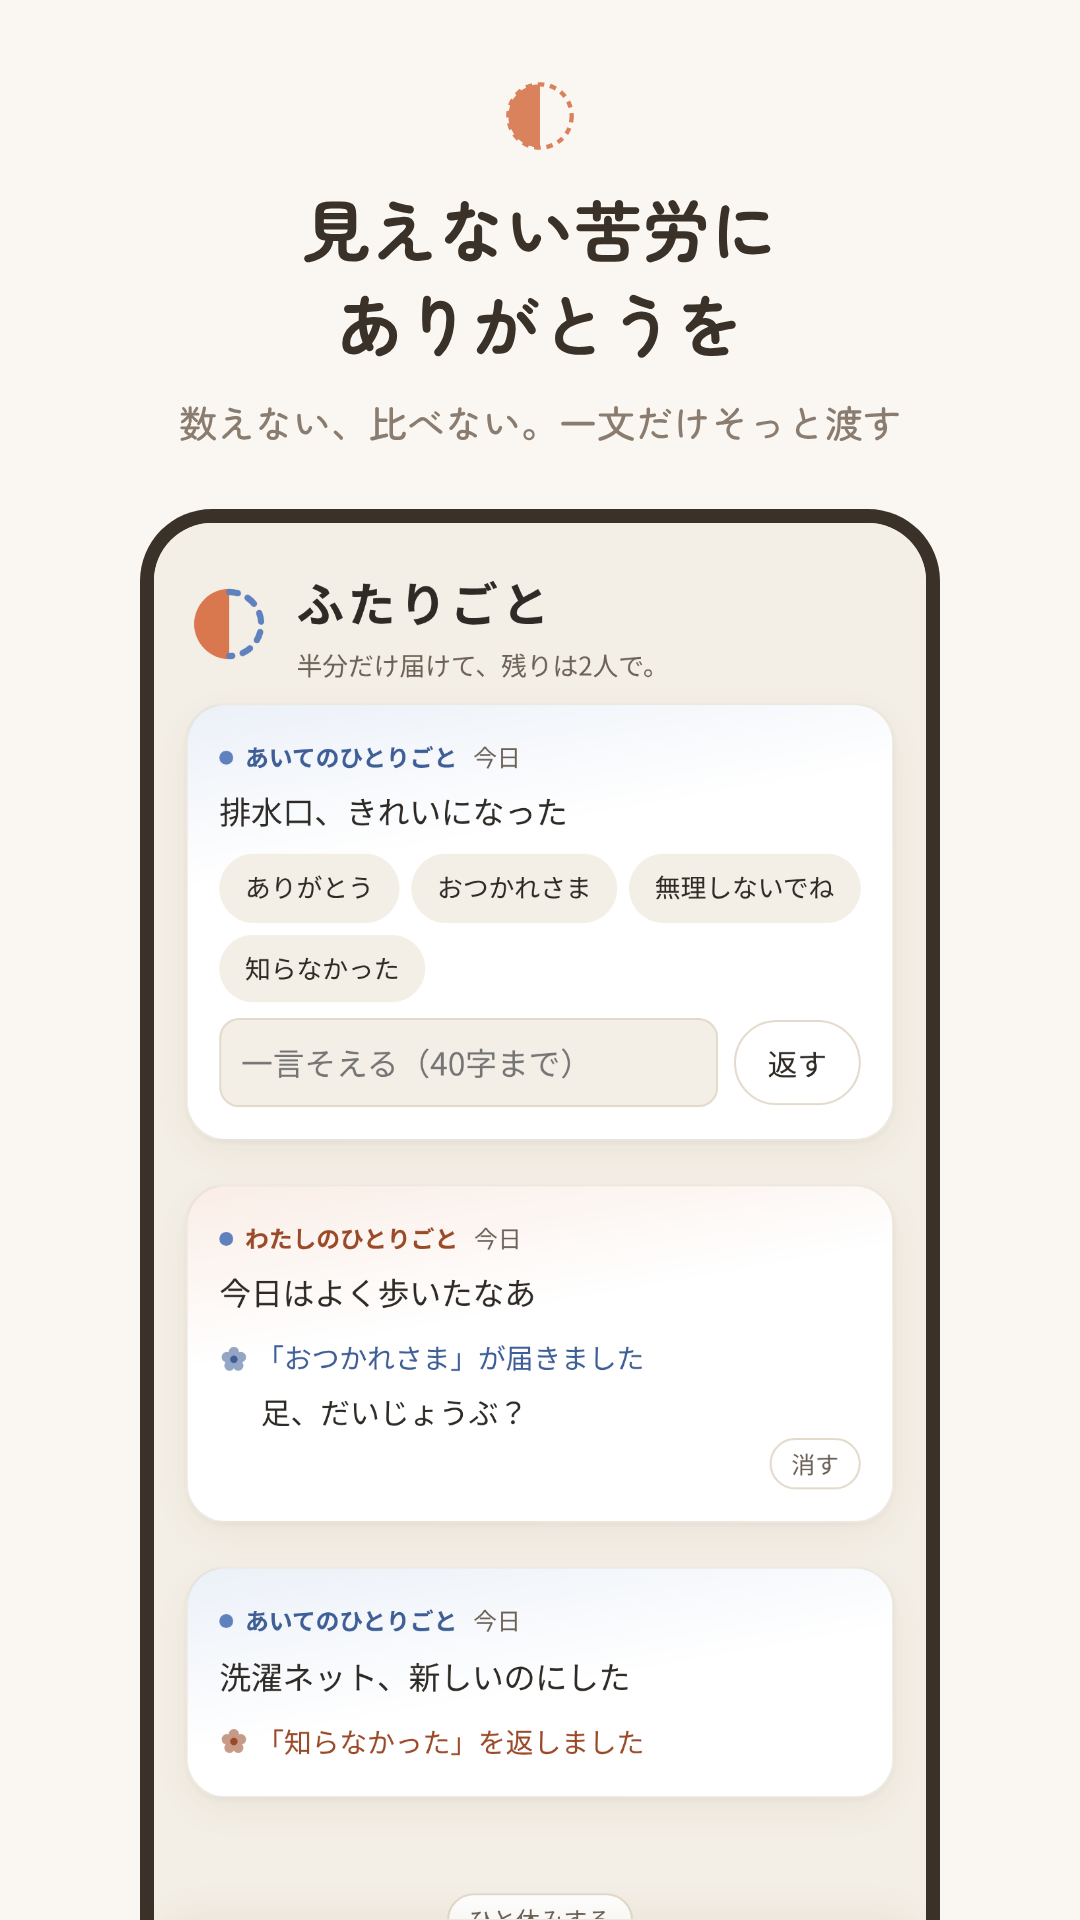
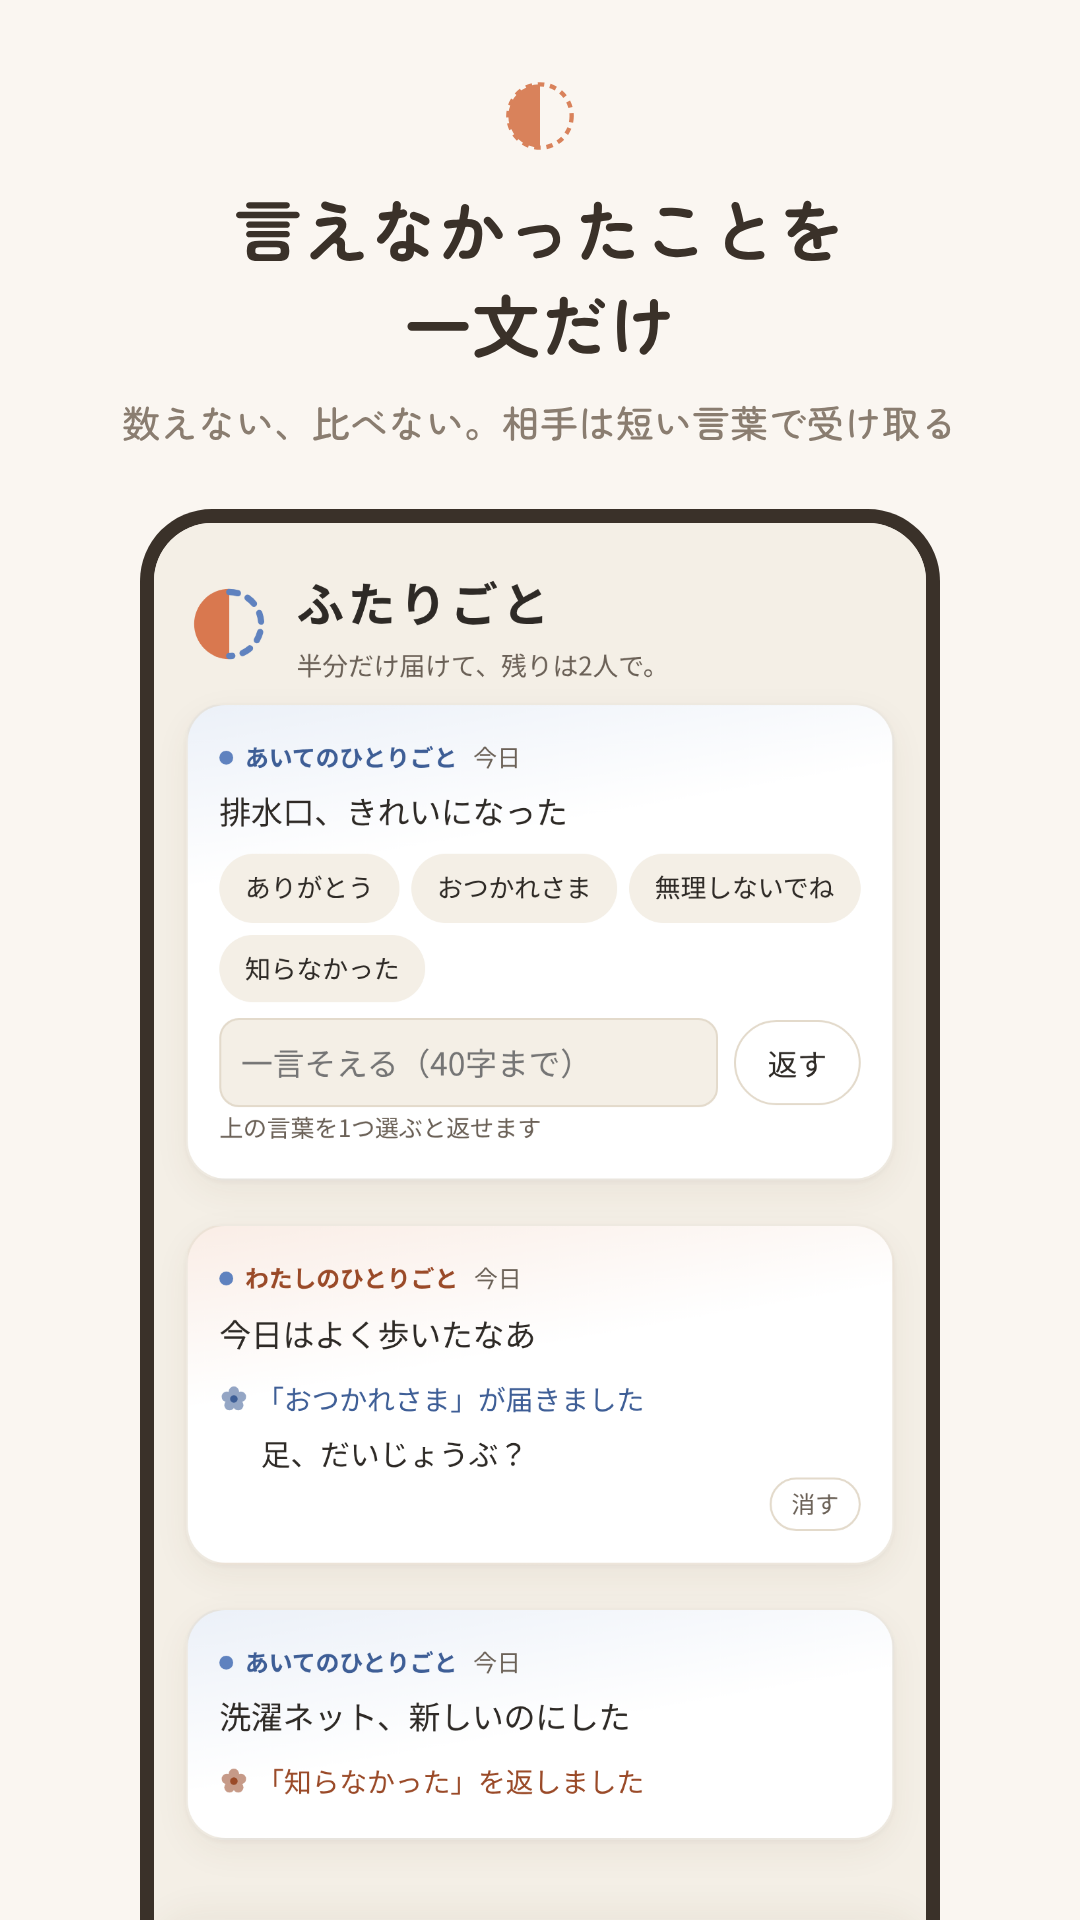
ストアの看板を「言えなかったことを、一文だけ」に（ひとりごとに合わせる）
Claude-Session: https://claude.ai/code/session_017VbUpz8D117KQWHBucuJGs

diff --git a/site/index.html b/site/index.html
@@ -124,7 +124,7 @@ footer a { color: inherit; }
     <div class="shot"><img src="img/kurou.png" width="390" height="760" loading="lazy" alt="ひとりごとの画面。「排水口、きれいになった」に、ありがとう・おつかれさま・無理しないでね・知らなかった の4つの返す言葉がある"></div>
     <div>
       <div class="tag">ひとりごと</div>
-      <h3>見えない苦労は、ひとりごとで</h3>
+      <h3>言えなかったことは、ひとりごとで</h3>
       <p>声に出さなかったことを、ひとりごとみたいに一文だけ置きます。相手が返せるのは「ありがとう」「おつかれさま」「無理しないでね」「知らなかった」の4つの言葉と、一言だけです。</p>
       <p>家事の量を点数にしたり、どちらが多いかを比べたりはしません。数えはじめると、ありがとうが勝ち負けになってしまうからです。</p>
     </div>
